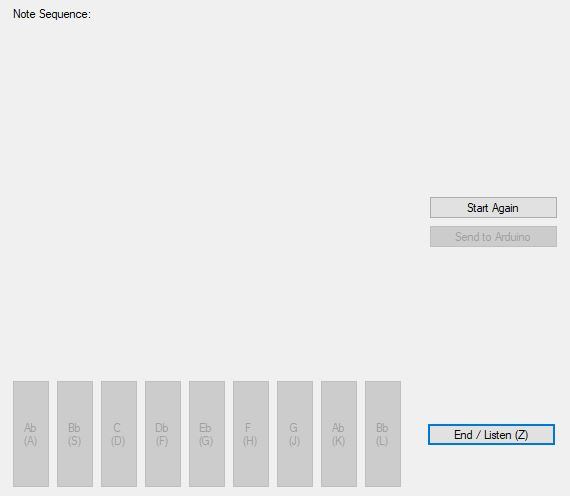
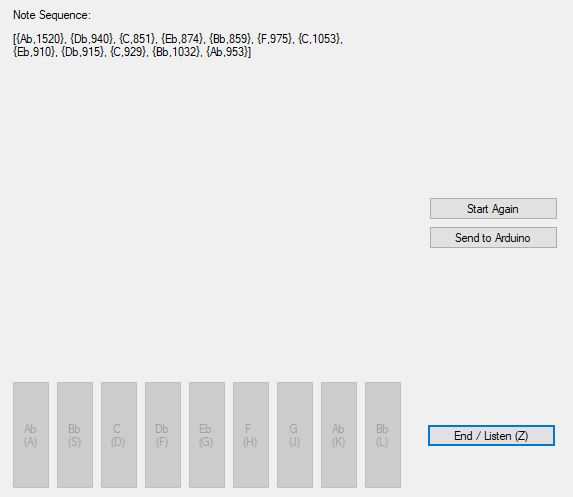
Readme final version and commented Arduino code

diff --git a/README.md b/README.md
@@ -10,10 +10,8 @@ The circuit is pretty basic, it just has two servo motors connected to an Arduin
 <p align="center"><img src="/imgs/circuit.JPG"><br><b>Circuit</b></p>
 
 ## The Application
-The Windows Application is a Form where the user can play a melody with the keyboard and send it to the Arduino. The software deals with registering the notes and calculating the time between each note played to generate a tuple <b><i>(n,t)</i></b> for each note, where <b>n</b> represents the note and <b>t</b> the time between the note and the next note.
+The Windows Application is a Form where the user can play a melody with the keyboard and send it to the Arduino. The software deals with registering the notes and calculating the time between each note played to generate a pair <b><i>(n,t)</i></b> for each note, where <b>n</b> represents the note and <b>t</b> the time in milliseconds between the note and the next note.
 The UI is simple:
 <p align="center"><img src="/imgs/ui.JPG"><br><b>UI</b></p>
-There are 9 buttons below representing the notes that can be played in the xylohpone. The notes can be played in the software using the keyboard with the keys <b>A</b>, <b>S</b>, <b>D</b>, <b>F</b>, <b>G</b>, <b>H</b>, <b>J</b>, <b>K</b>, <b>L</b> as illustrated in the UI. There is a label that shows the sequence of tuples <b><i>(n,t)</i></b> and three more buttons: one to start a new melody, one to send the melody to the Arduino and one to stop playing our current melody (this one can be called with the <b>Z</b> key).
-
-
+There are 9 buttons below representing the notes that can be played in the xylohpone. The notes can be played in the software using the keyboard with the keys <b>A</b>, <b>S</b>, <b>D</b>, <b>F</b>, <b>G</b>, <b>H</b>, <b>J</b>, <b>K</b>, <b>L</b> as illustrated in the UI. There is a label that shows the sequence of pairs <b><i>(n,t)</i></b> and three more buttons: one to start a new melody, one to send the melody to the Arduino and one to stop playing our current melody (this one can be called with the <b>Z</b> key).
 
